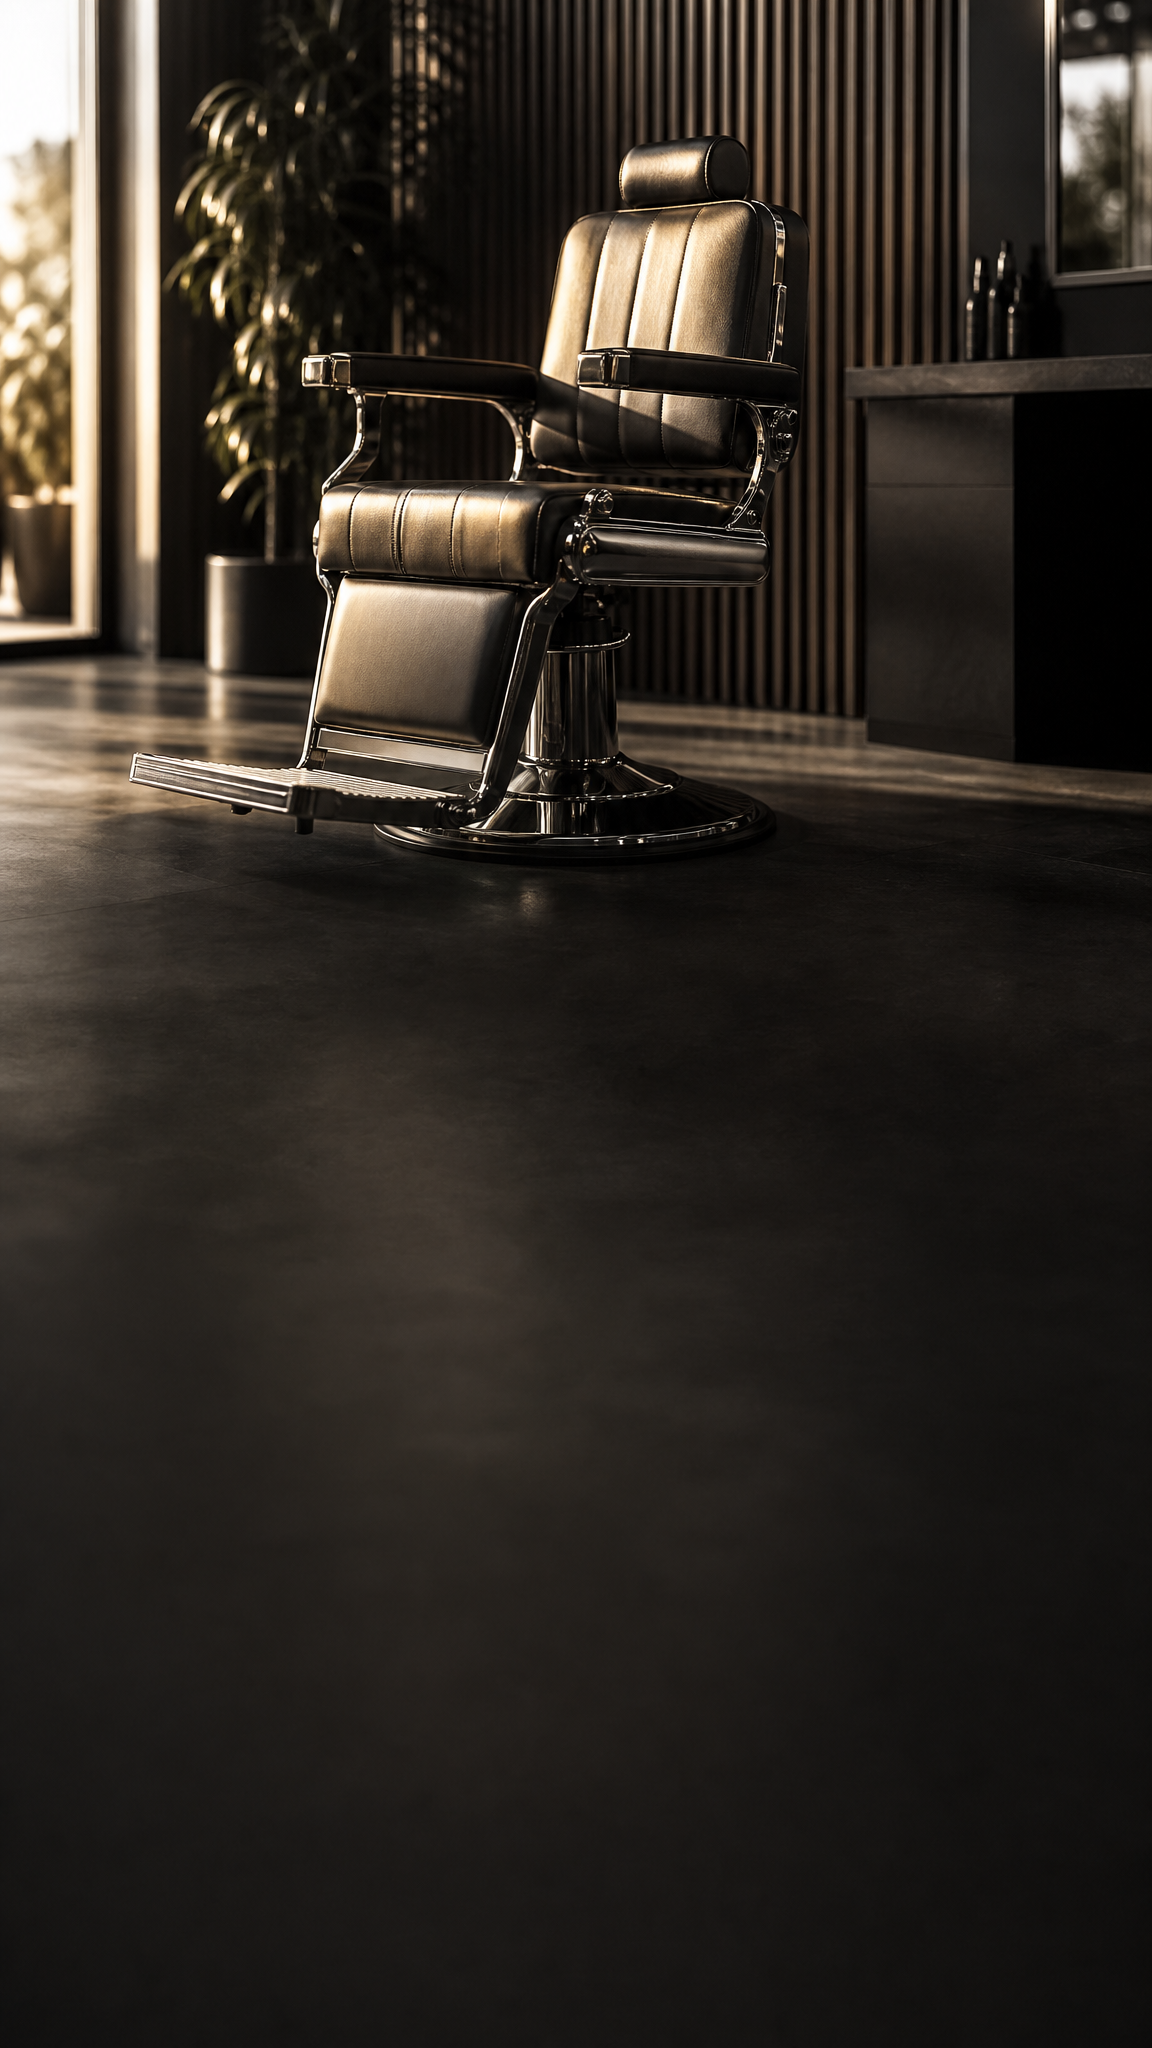
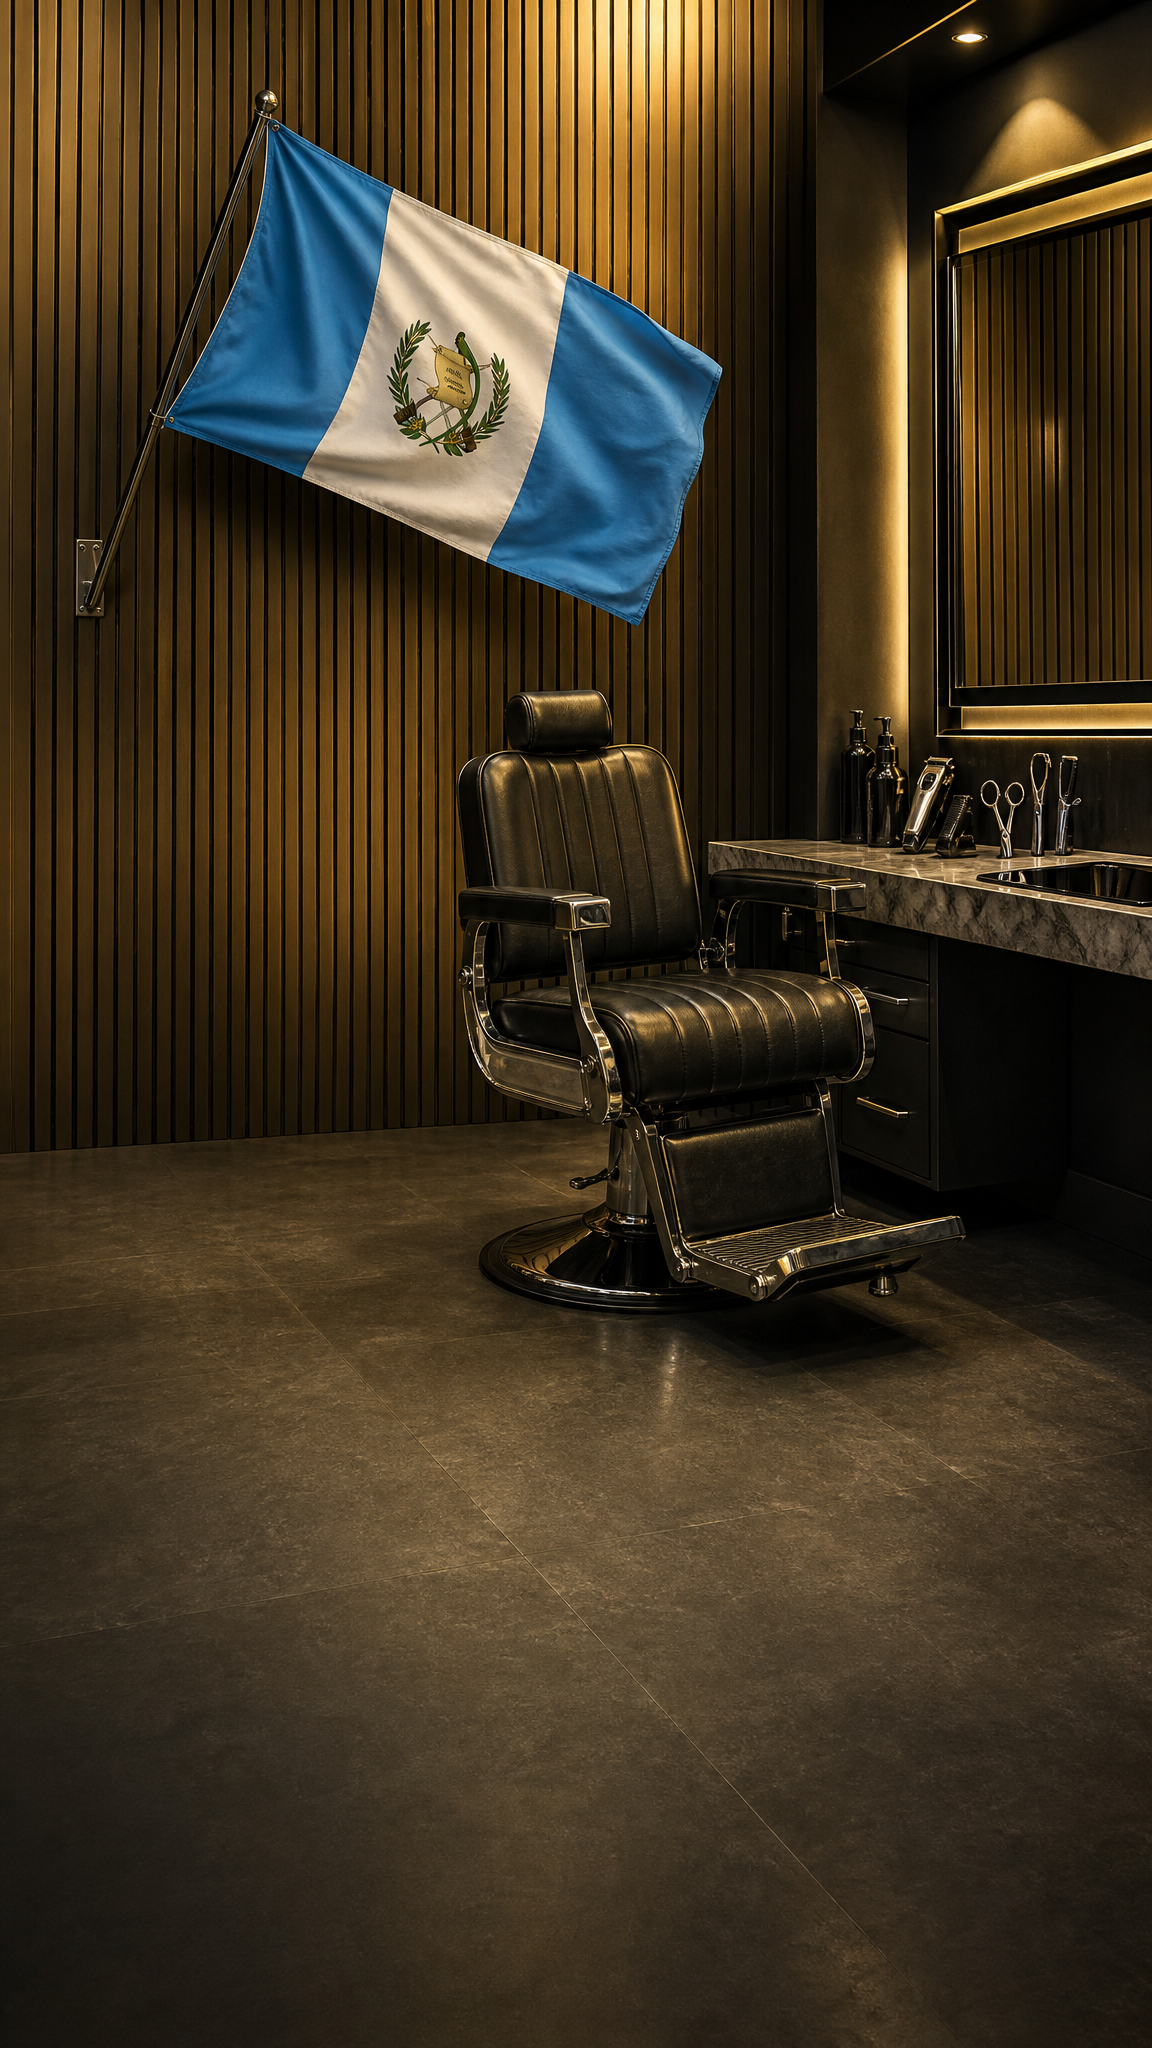
Rebuild horario-especial-15-septiembre flag as a scene element
Replace the small flag badge chip with a full background regeneration:
the Guatemalan flag is now mounted on a wall-bracket flagpole behind
the barber chair, flying outward horizontally, large and unmistakable,
rendered in its true colors as the one selective-color element in an
otherwise duotone/gold-key-light scene. An earlier attempt layered a
full-bleed flag photo behind the existing chair photo at reduced
opacity; that produced a muddy double exposure and was rejected in
favor of this single regenerated scene.

- New assets/bg.png + assets/bg-story.png (flag baked into the photo)
- Removed the inline SVG flag-badge chip and its CSS
- copy.json build_method documents the full v1->v2->v3 history
- Root index.html alt text updated for both grid entries

diff --git a/posts/instagram/horario-especial-15-septiembre/index-story.html b/posts/instagram/horario-especial-15-septiembre/index-story.html
@@ -49,7 +49,7 @@
     inset:0;
     width:100%;height:100%;
     object-fit:cover;
-    object-position:50% 12%;
+    object-position:50% 15%;
   }
 
   /* Scrim sutil arriba, fuerte abajo */
@@ -95,14 +95,6 @@
     padding:12px 28px;
     border-radius:40px;
   }
-  .flag-badge{
-    height:48px;
-    width:auto;
-    display:block;
-    border-radius:6px;
-    box-shadow:0 2px 8px rgba(0,0,0,.35);
-  }
-
   /* Todo el copy anclado al fondo, con espacio para la barra de respuesta */
   .content{
     position:absolute;
@@ -191,33 +183,6 @@
 
   <div class="eyebrow-row">
     <div class="pill">Horario especial</div>
-    <svg class="flag-badge" viewBox="0 0 150 100" xmlns="http://www.w3.org/2000/svg" role="img" aria-label="Bandera de Guatemala">
-      <rect x="0" y="0" width="150" height="100" fill="#4997D0"/>
-      <rect x="50" y="0" width="50" height="100" fill="#FFFFFF"/>
-      <g transform="translate(75,52)">
-        <g fill="#3F8F46">
-          <ellipse cx="-19" cy="-2" rx="5" ry="10" transform="rotate(-20 -19 -2)"/>
-          <ellipse cx="-16" cy="8" rx="5" ry="10" transform="rotate(-5 -16 8)"/>
-          <ellipse cx="-11" cy="17" rx="5" ry="10" transform="rotate(15 -11 17)"/>
-          <ellipse cx="19" cy="-2" rx="5" ry="10" transform="rotate(20 19 -2)"/>
-          <ellipse cx="16" cy="8" rx="5" ry="10" transform="rotate(5 16 8)"/>
-          <ellipse cx="11" cy="17" rx="5" ry="10" transform="rotate(-15 11 17)"/>
-        </g>
-        <g stroke="#6B6B6B" stroke-width="2.4" stroke-linecap="round">
-          <line x1="-16" y1="10" x2="16" y2="-8"/>
-          <line x1="-16" y1="-8" x2="16" y2="10"/>
-        </g>
-        <g fill="#6B4A2E">
-          <rect x="-19" y="8" width="6" height="3.2" rx="1"/>
-          <rect x="13" y="8" width="6" height="3.2" rx="1"/>
-        </g>
-        <rect x="-13" y="9" width="26" height="10" rx="2" fill="#E8D9A0" stroke="#C9B87A" stroke-width="0.8"/>
-        <path d="M -3 8 C -6 -6, -2 -14, 3 -20 C 8 -14, 9 -4, 5 6 Z" fill="#3F8F46"/>
-        <ellipse cx="3" cy="-19" rx="4.2" ry="4.6" fill="#3F8F46"/>
-        <path d="M 5 -21 C 8 -22, 10 -20, 9 -17 C 7.5 -18.5, 6 -19, 5 -21 Z" fill="#3F8F46"/>
-        <ellipse cx="1" cy="-13" rx="2.6" ry="4.6" fill="#B5342D"/>
-      </g>
-    </svg>
   </div>
 
   <div class="content">

diff --git a/posts/instagram/horario-especial-15-septiembre/index.html b/posts/instagram/horario-especial-15-septiembre/index.html
@@ -49,7 +49,7 @@
     inset:0;
     width:100%;height:100%;
     object-fit:cover;
-    object-position:50% 14%;
+    object-position:50% 22%;
   }
 
   /* Scrim sutil arriba, fuerte abajo */
@@ -95,14 +95,6 @@
     padding:12px 28px;
     border-radius:40px;
   }
-  .flag-badge{
-    height:48px;
-    width:auto;
-    display:block;
-    border-radius:6px;
-    box-shadow:0 2px 8px rgba(0,0,0,.35);
-  }
-
   /* Todo el copy anclado al fondo, con espacio reservado para el footer */
   .content{
     position:absolute;
@@ -191,33 +183,6 @@
 
   <div class="eyebrow-row">
     <div class="pill">Horario especial</div>
-    <svg class="flag-badge" viewBox="0 0 150 100" xmlns="http://www.w3.org/2000/svg" role="img" aria-label="Bandera de Guatemala">
-      <rect x="0" y="0" width="150" height="100" fill="#4997D0"/>
-      <rect x="50" y="0" width="50" height="100" fill="#FFFFFF"/>
-      <g transform="translate(75,52)">
-        <g fill="#3F8F46">
-          <ellipse cx="-19" cy="-2" rx="5" ry="10" transform="rotate(-20 -19 -2)"/>
-          <ellipse cx="-16" cy="8" rx="5" ry="10" transform="rotate(-5 -16 8)"/>
-          <ellipse cx="-11" cy="17" rx="5" ry="10" transform="rotate(15 -11 17)"/>
-          <ellipse cx="19" cy="-2" rx="5" ry="10" transform="rotate(20 19 -2)"/>
-          <ellipse cx="16" cy="8" rx="5" ry="10" transform="rotate(5 16 8)"/>
-          <ellipse cx="11" cy="17" rx="5" ry="10" transform="rotate(-15 11 17)"/>
-        </g>
-        <g stroke="#6B6B6B" stroke-width="2.4" stroke-linecap="round">
-          <line x1="-16" y1="10" x2="16" y2="-8"/>
-          <line x1="-16" y1="-8" x2="16" y2="10"/>
-        </g>
-        <g fill="#6B4A2E">
-          <rect x="-19" y="8" width="6" height="3.2" rx="1"/>
-          <rect x="13" y="8" width="6" height="3.2" rx="1"/>
-        </g>
-        <rect x="-13" y="9" width="26" height="10" rx="2" fill="#E8D9A0" stroke="#C9B87A" stroke-width="0.8"/>
-        <path d="M -3 8 C -6 -6, -2 -14, 3 -20 C 8 -14, 9 -4, 5 6 Z" fill="#3F8F46"/>
-        <ellipse cx="3" cy="-19" rx="4.2" ry="4.6" fill="#3F8F46"/>
-        <path d="M 5 -21 C 8 -22, 10 -20, 9 -17 C 7.5 -18.5, 6 -19, 5 -21 Z" fill="#3F8F46"/>
-        <ellipse cx="1" cy="-13" rx="2.6" ry="4.6" fill="#B5342D"/>
-      </g>
-    </svg>
   </div>
 
   <div class="content">

diff --git a/index.html b/index.html
@@ -487,7 +487,7 @@ const POSTS = [
     title:'Horario especial: 15 de septiembre',
     label:'Horario especial',
     cover:'posts/instagram/horario-especial-15-septiembre/00-portada.png',
-    alt:'Horario especial Nordic Barber Shop: silla de barbero vacía en interior moderno duotono con luz dorada, pill "Horario especial" junto a una pequeña bandera de Guatemala y acentos en celeste — el 15 de septiembre sí abrimos, martes 10 AM a 5 PM por el Día de la Independencia',
+    alt:'Horario especial Nordic Barber Shop: silla de barbero vacía en interior moderno duotono con luz dorada, una gran bandera de Guatemala montada en la pared detrás de la silla y acentos en celeste — el 15 de septiembre sí abrimos, martes 10 AM a 5 PM por el Día de la Independencia',
     copyJson:'posts/instagram/horario-especial-15-septiembre/copy.json',
     file:'00-portada.png'
   },
@@ -498,7 +498,7 @@ const POSTS = [
     title:'Horario especial: 15 de septiembre',
     label:'Versión: Story',
     cover:'posts/instagram/horario-especial-15-septiembre/00-story.png',
-    alt:'Horario especial Nordic Barber Shop: silla de barbero vacía en interior moderno duotono con luz dorada, pill "Horario especial" junto a una pequeña bandera de Guatemala y acentos en celeste — el 15 de septiembre sí abrimos, martes 10 AM a 5 PM por el Día de la Independencia, versión Story',
+    alt:'Horario especial Nordic Barber Shop: silla de barbero vacía en interior moderno duotono con luz dorada, una gran bandera de Guatemala montada en la pared detrás de la silla y acentos en celeste — el 15 de septiembre sí abrimos, martes 10 AM a 5 PM por el Día de la Independencia, versión Story',
     copyJson:'posts/instagram/horario-especial-15-septiembre/copy.json',
     file:'00-story.png'
   },
